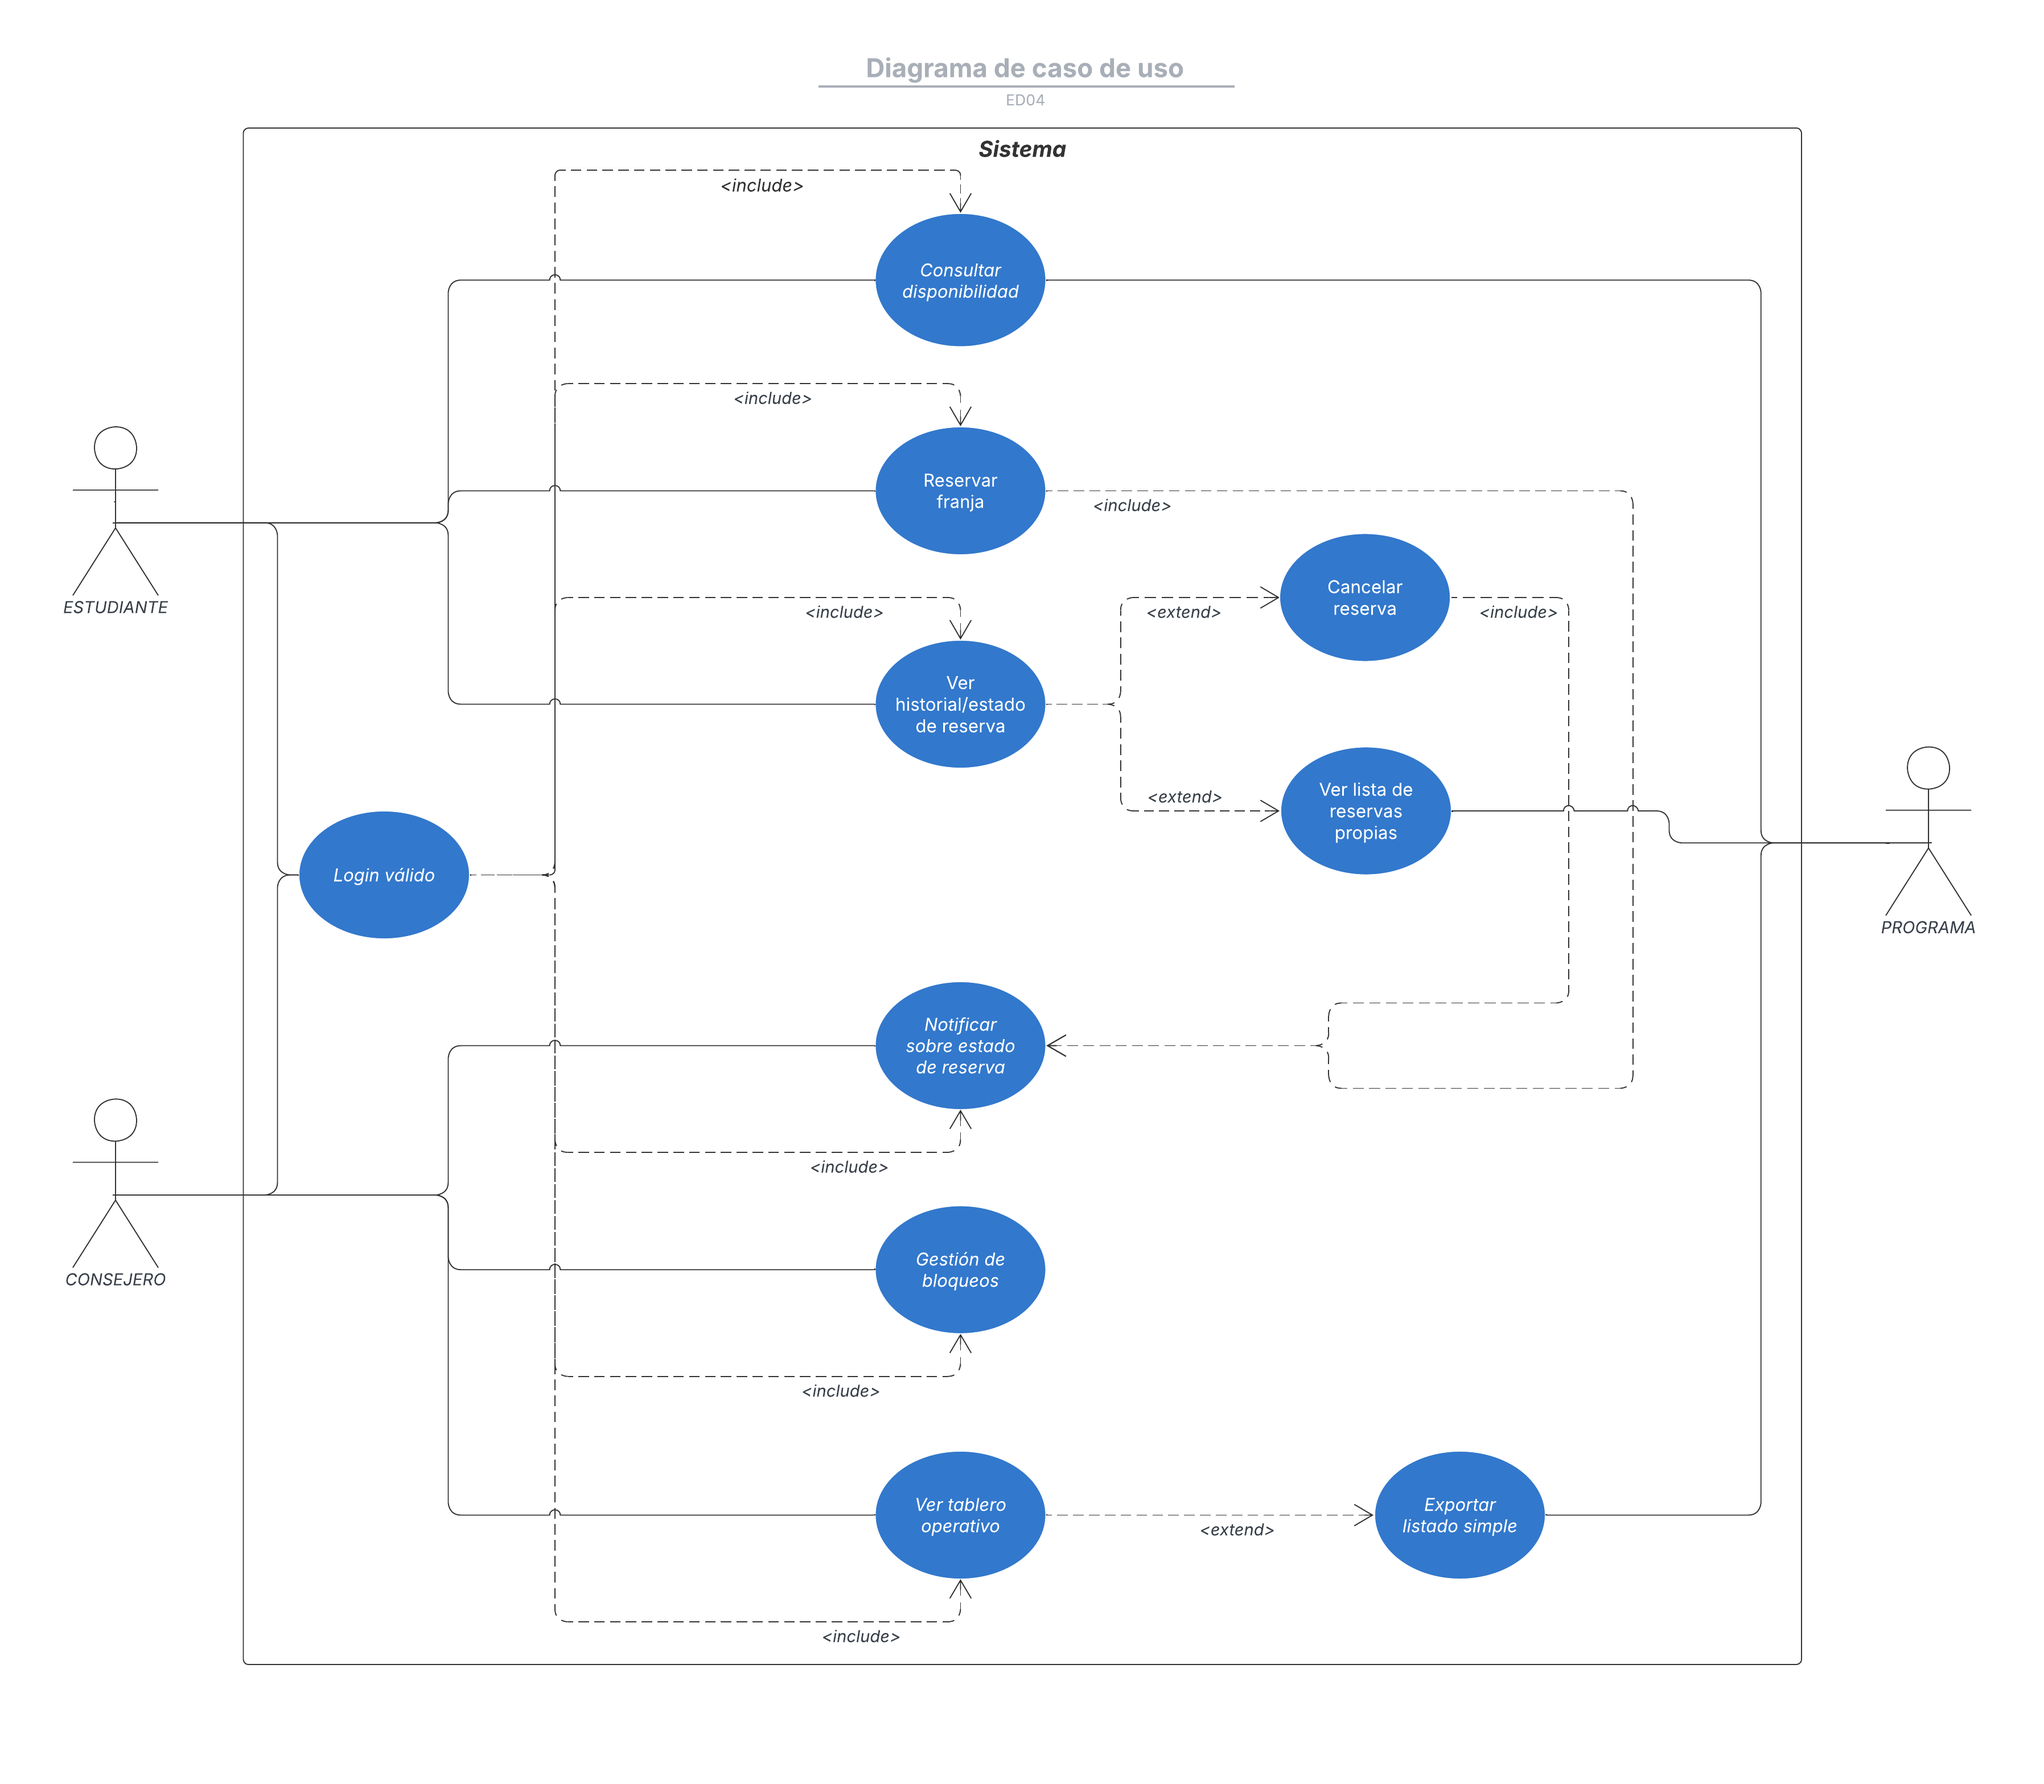
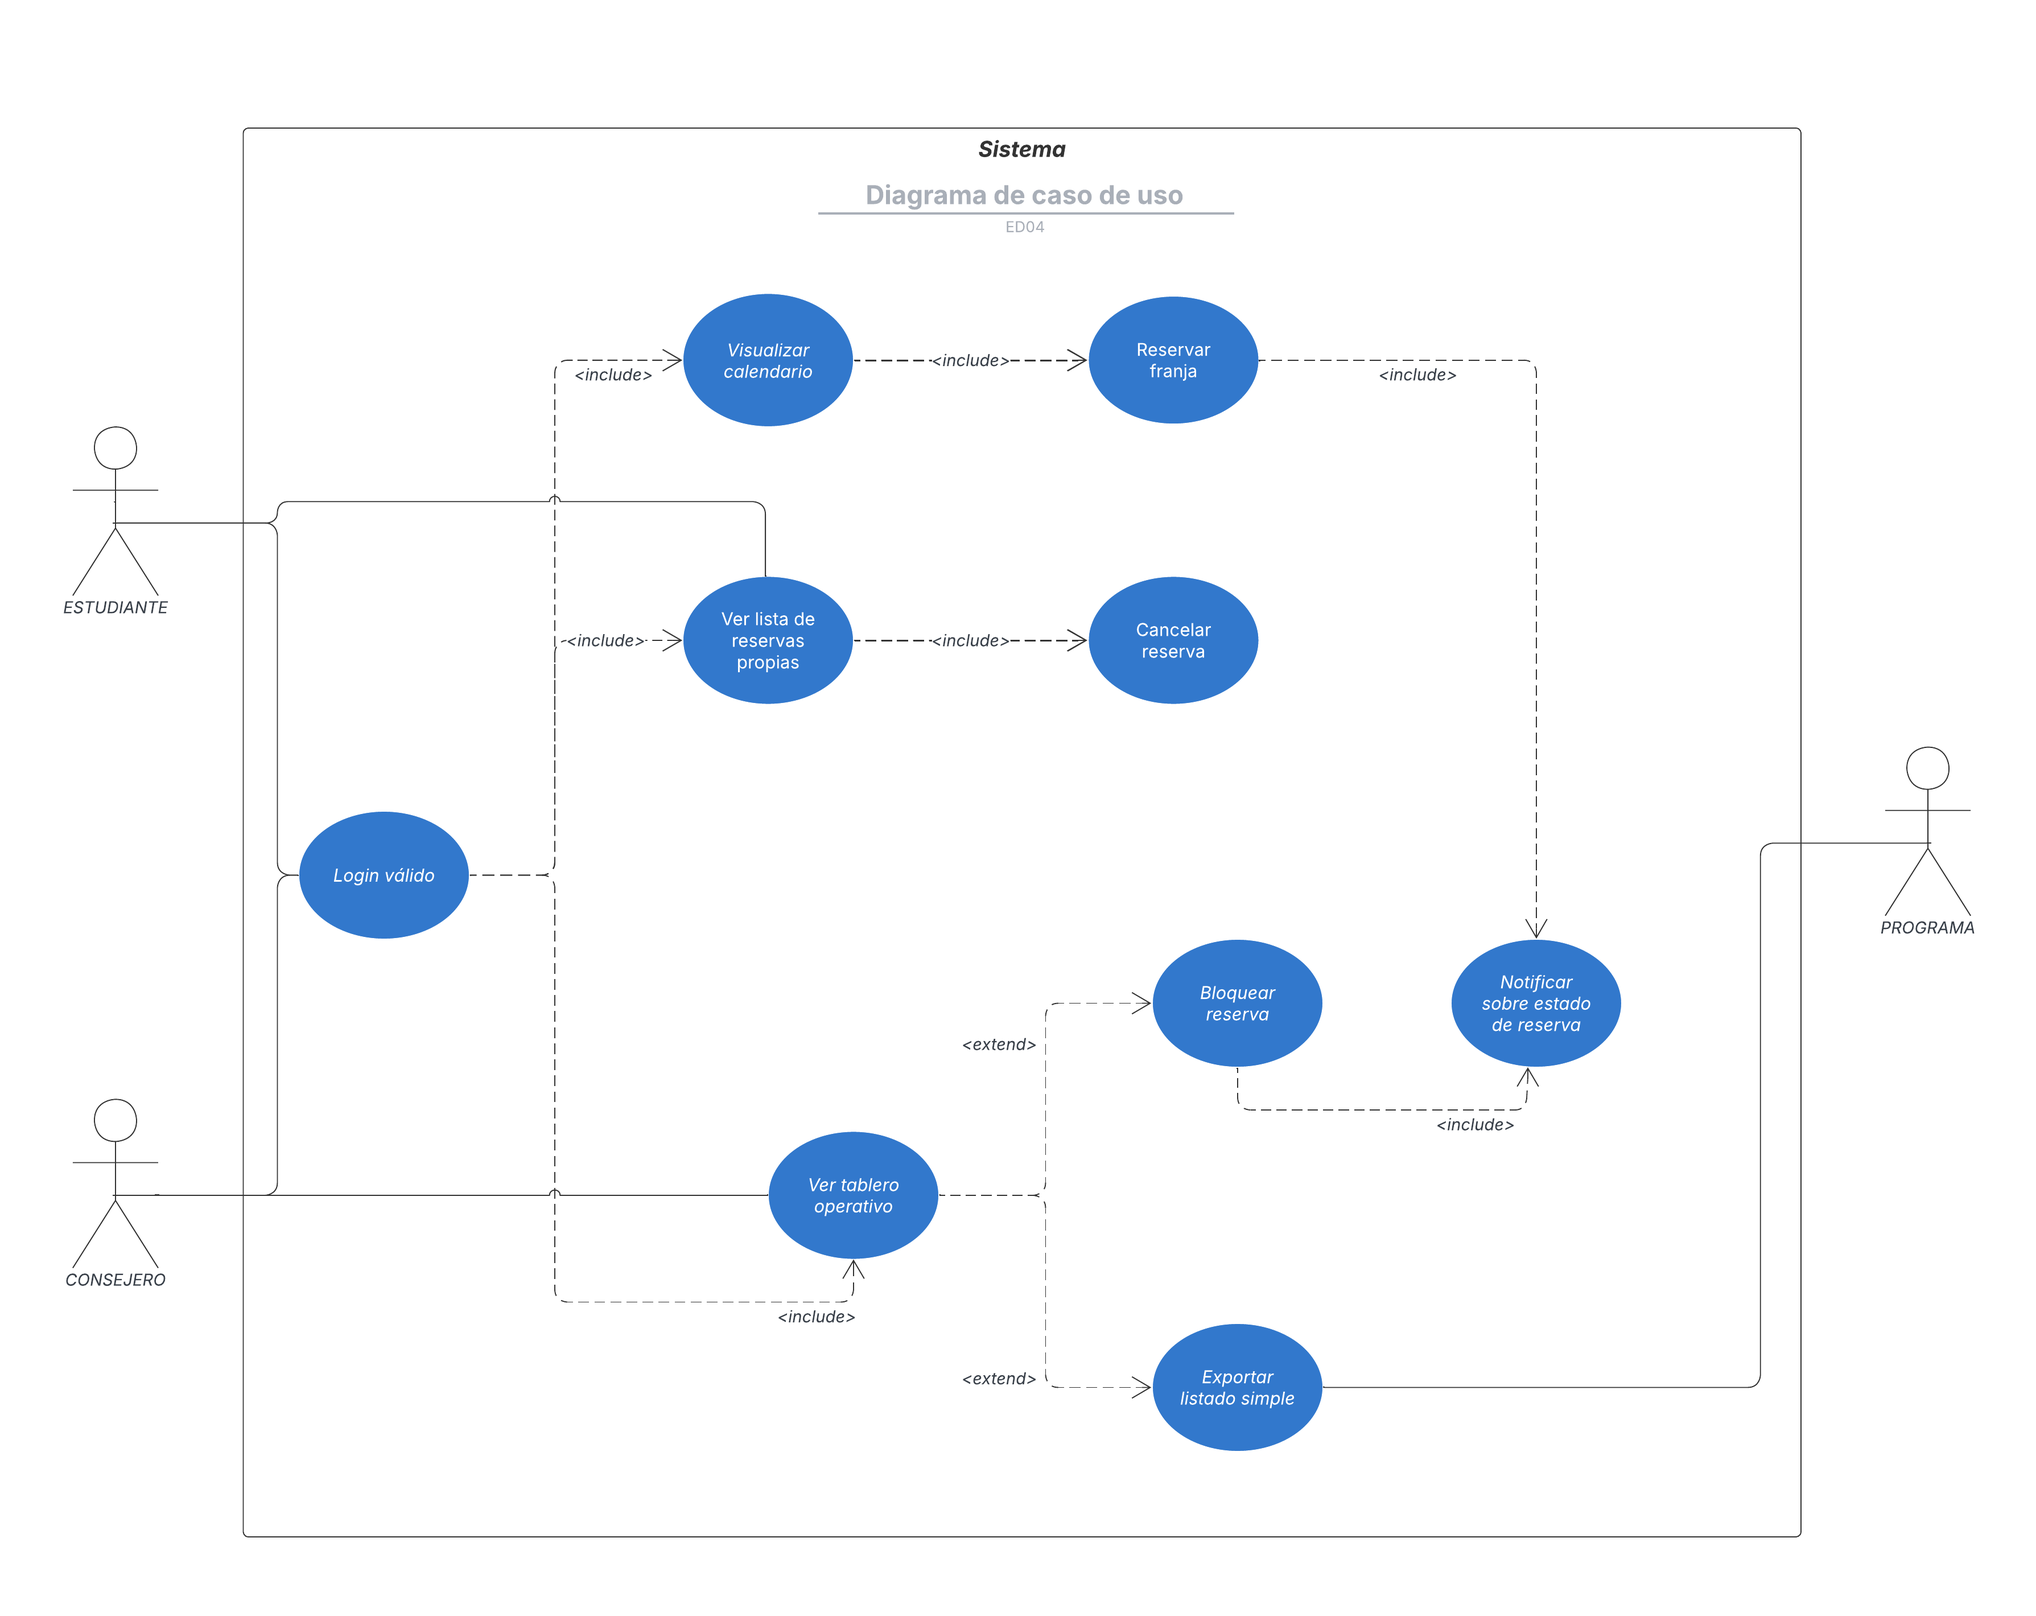
casos de uso optimizado

diff --git a/docs/project/Guide02/fase03/casos-uso.md b/docs/project/Guide02/fase03/casos-uso.md
@@ -18,7 +18,7 @@
 | El sistema muestra mensaje de acceso con éxito.                                                 |
 | El caso de uso termina.                                                                         |
 ##
-| Caso de uso: Consultar disponibilidad |                                                                                                    |
+| Caso de uso: Visualizar   calendario |                                                                                                    |
 |---------------------------------------|----------------------------------------------------------------------------------------------------|
 | ID:                                   | CUS-02                                                                                             |
 | Descripción:                          | Muestra al Estudiante un calendario con las franjas horarias disponibles o marcadas como ocupadas. |
@@ -52,7 +52,7 @@
 | El Sistema muestra el mensaje de confirmación de reserva guardada.                                      |
 | El caso de uso finaliza.                                                                                |
 ##
-| Caso de uso: Ver historial/estado de reserva |                                                                                                                                                             |
+| Caso de uso: Ver lista de reservas propias |                                                                                                                                                             |
 |----------------------------------------------|-------------------------------------------------------------------------------------------------------------------------------------------------------------|
 | ID:                                          | CUS_04                                                                                                                                                      |
 | Descripción:                                 | Permite al Estudiante ver el estado de su reserva y tiene la posibilidad de cancelarla, respetando la política de cancelación. (tiempo mínimo configurable) |
@@ -63,12 +63,29 @@
 | Flujo principal                                                                                              |
 |--------------------------------------------------------------------------------------------------------------|
 | El Estudiante navega a la sección "Mis Reservas".                                                            |
-| El sistema muestra el listado de reservas propias (activas, pasadas).                                        |
+| El sistema muestra el listado de reservas propias.                                        |
 | El Estudiante selecciona una reserva activa y confirma la cancelación.                                       |
 | El sistema verifica el tiempo restante para el inicio contra la política de cancelación (ej. $\ge N$ horas). |
 | Si cumple el plazo: El sistema actualiza el estado de la reserva a "Cancelada".                              |
 | El sistema le avisa al usuario que ha cancelado su reserva.                                                  |
 | El caso de uso finaliza.                                                                                     |
+##
+| Caso de uso: Ver Tablero Operativo |                                                                                                                        |
+|------------------------------------|------------------------------------------------------------------------------------------------------------------------|
+| ID:                                | CUS-06                                                                                                                 |
+| Descripción:                       | Muestra al consejero un calendario con información de las reservas registradas y le permite gestionar los bloqueos. |
+| Actor:                             | Consejero.                                                                                                             |
+| Precondición:                      | El Consejero está autenticado.                                                                                         | 
+| Postcondición:                     | El Consejero tiene acceso a la información operativa.                                                                  |
+
+| Flujo principal                                                                                                                          |
+|------------------------------------------------------------------------------------------------------------------------------------------|
+| El consejero accede a el módulo Ver Tablero Operativo".                                                                                  |
+| El sistema le muestra un calendario con las reservas registradas.                                                    |
+| El sistema le da la opción de bloquear una franja o un día, por eventos o mantenimiento.  |
+| El sistema le permite al Consejero aplicar hacer una exportación simple del listado. |
+| El sistema aplica el bloqueo indicado, o realiza la exportación simple, dependiendo de la opción optada por el Consejero.                                              |
+| El caso de uso finaliza.                                                                                                                 |
 ##
 | Caso de uso: Administrar Bloqueos |                                                                                                                              |
 |-----------------------------------|------------------------------------------------------------------------------------------------------------------------------|
@@ -80,41 +97,25 @@
 
 | Flujo principal                                                                                  |
 |--------------------------------------------------------------------------------------------------|
-| El Consejero accede al módulo de Bloqueo de Calendarios.                                         |
-| El Consejero selecciona la fecha a bloquear y define el horario del bloqueo.                     |
+| El Consejero selecciona una fecha del calendario.                                         |
+| El Consejero elije si va a bloquear la fecha seleccionado o un rango de horas de esa fecha. |
+| El Consejero define el horario del bloqueo.                     |
 | El Consejero confirma el bloqueo.                                                                |
 | El sistema registra el bloqueo y le da prioridad respecto a toda reserva que se quiera realizar. |
 | El caso de uso finaliza.                                                                         |
 ##
-| Caso de uso: Ver Tablero Operativo |                                                                                                                        |
-|------------------------------------|------------------------------------------------------------------------------------------------------------------------|
-| ID:                                | CUS-06                                                                                                                 |
-| Descripción:                       | Muestra al consejero el listado operativo de reservas ordenado de Lunes a Jueves, con filtros para la gestión semanal. |
-| Actor:                             | Consejero.                                                                                                             |
-| Precondición:                      | El Consejero está autenticado.                                                                                         | 
-| Postcondición:                     | El Consejero tiene acceso a la información operativa.                                                                  |
-
-| Flujo principal                                                                                                                          |
-|------------------------------------------------------------------------------------------------------------------------------------------|
-| El consejero accede a el módulo Ver Tablero Operativo".                                                                                  |
-| El sistema le muestra la lista de reservas por semana, ordenadas de Lunes a Sábado.                                                      |
-| El sistema le permite al Consejero aplicar filtros básicos a la lista de reservas presentada o hacer una exportación simple del listado. |
-| El sistema aplica el filtro o exporta el listado, si se ha escogido alguna de esas opciones.                                             |
-| El caso de uso finaliza.                                                                                                                 |
-##
 | Caso de uso: Notificar al Usuario  |                                                                                        |
 |------------------------------------|----------------------------------------------------------------------------------------|
 | ID:                                | CUS-07                                                                                 |
-| Descripción:                       | Permite al consejero notificar al usuario el estado en el que se encuentra su reserva. |
+| Descripción:                       | Permite al consejero notificar al usuario el estado en el que se encuentra su reserva (si hubo bloqueos en el día de su reserva). |
 | Actor:                             | Consejero.                                                                             |
 | Precondición:                      | El Consejero está autenticado.                                                         | 
 | Postcondición:                     | Se le ha enviado un correo informativo o de aviso al Estudiante.                       |        
 
 | Flujo principal                                                                                                                               |
 |-----------------------------------------------------------------------------------------------------------------------------------------------|
-| El Consejero accede al módulo de Notificar.                                                                                                   |
+| El Consejero ha bloqueado una fecha en el calendario.                                                                                                   |
 | El sistema le muestra la posiblidad de notificar sobre algún cambio que hubo en los horarios al registrar la reserva.                         |
-| El sistema le muestra la posibilidad de realizar un informe respecto a la cancelación o el rechazo de la reserva realizada por el Estudiante. |
 | El Consejero envia un correo al Estudiante respecto a los datos de la reserva.                                                                |
 | El caso de uso finaliza.                                                                                                                      |
 
